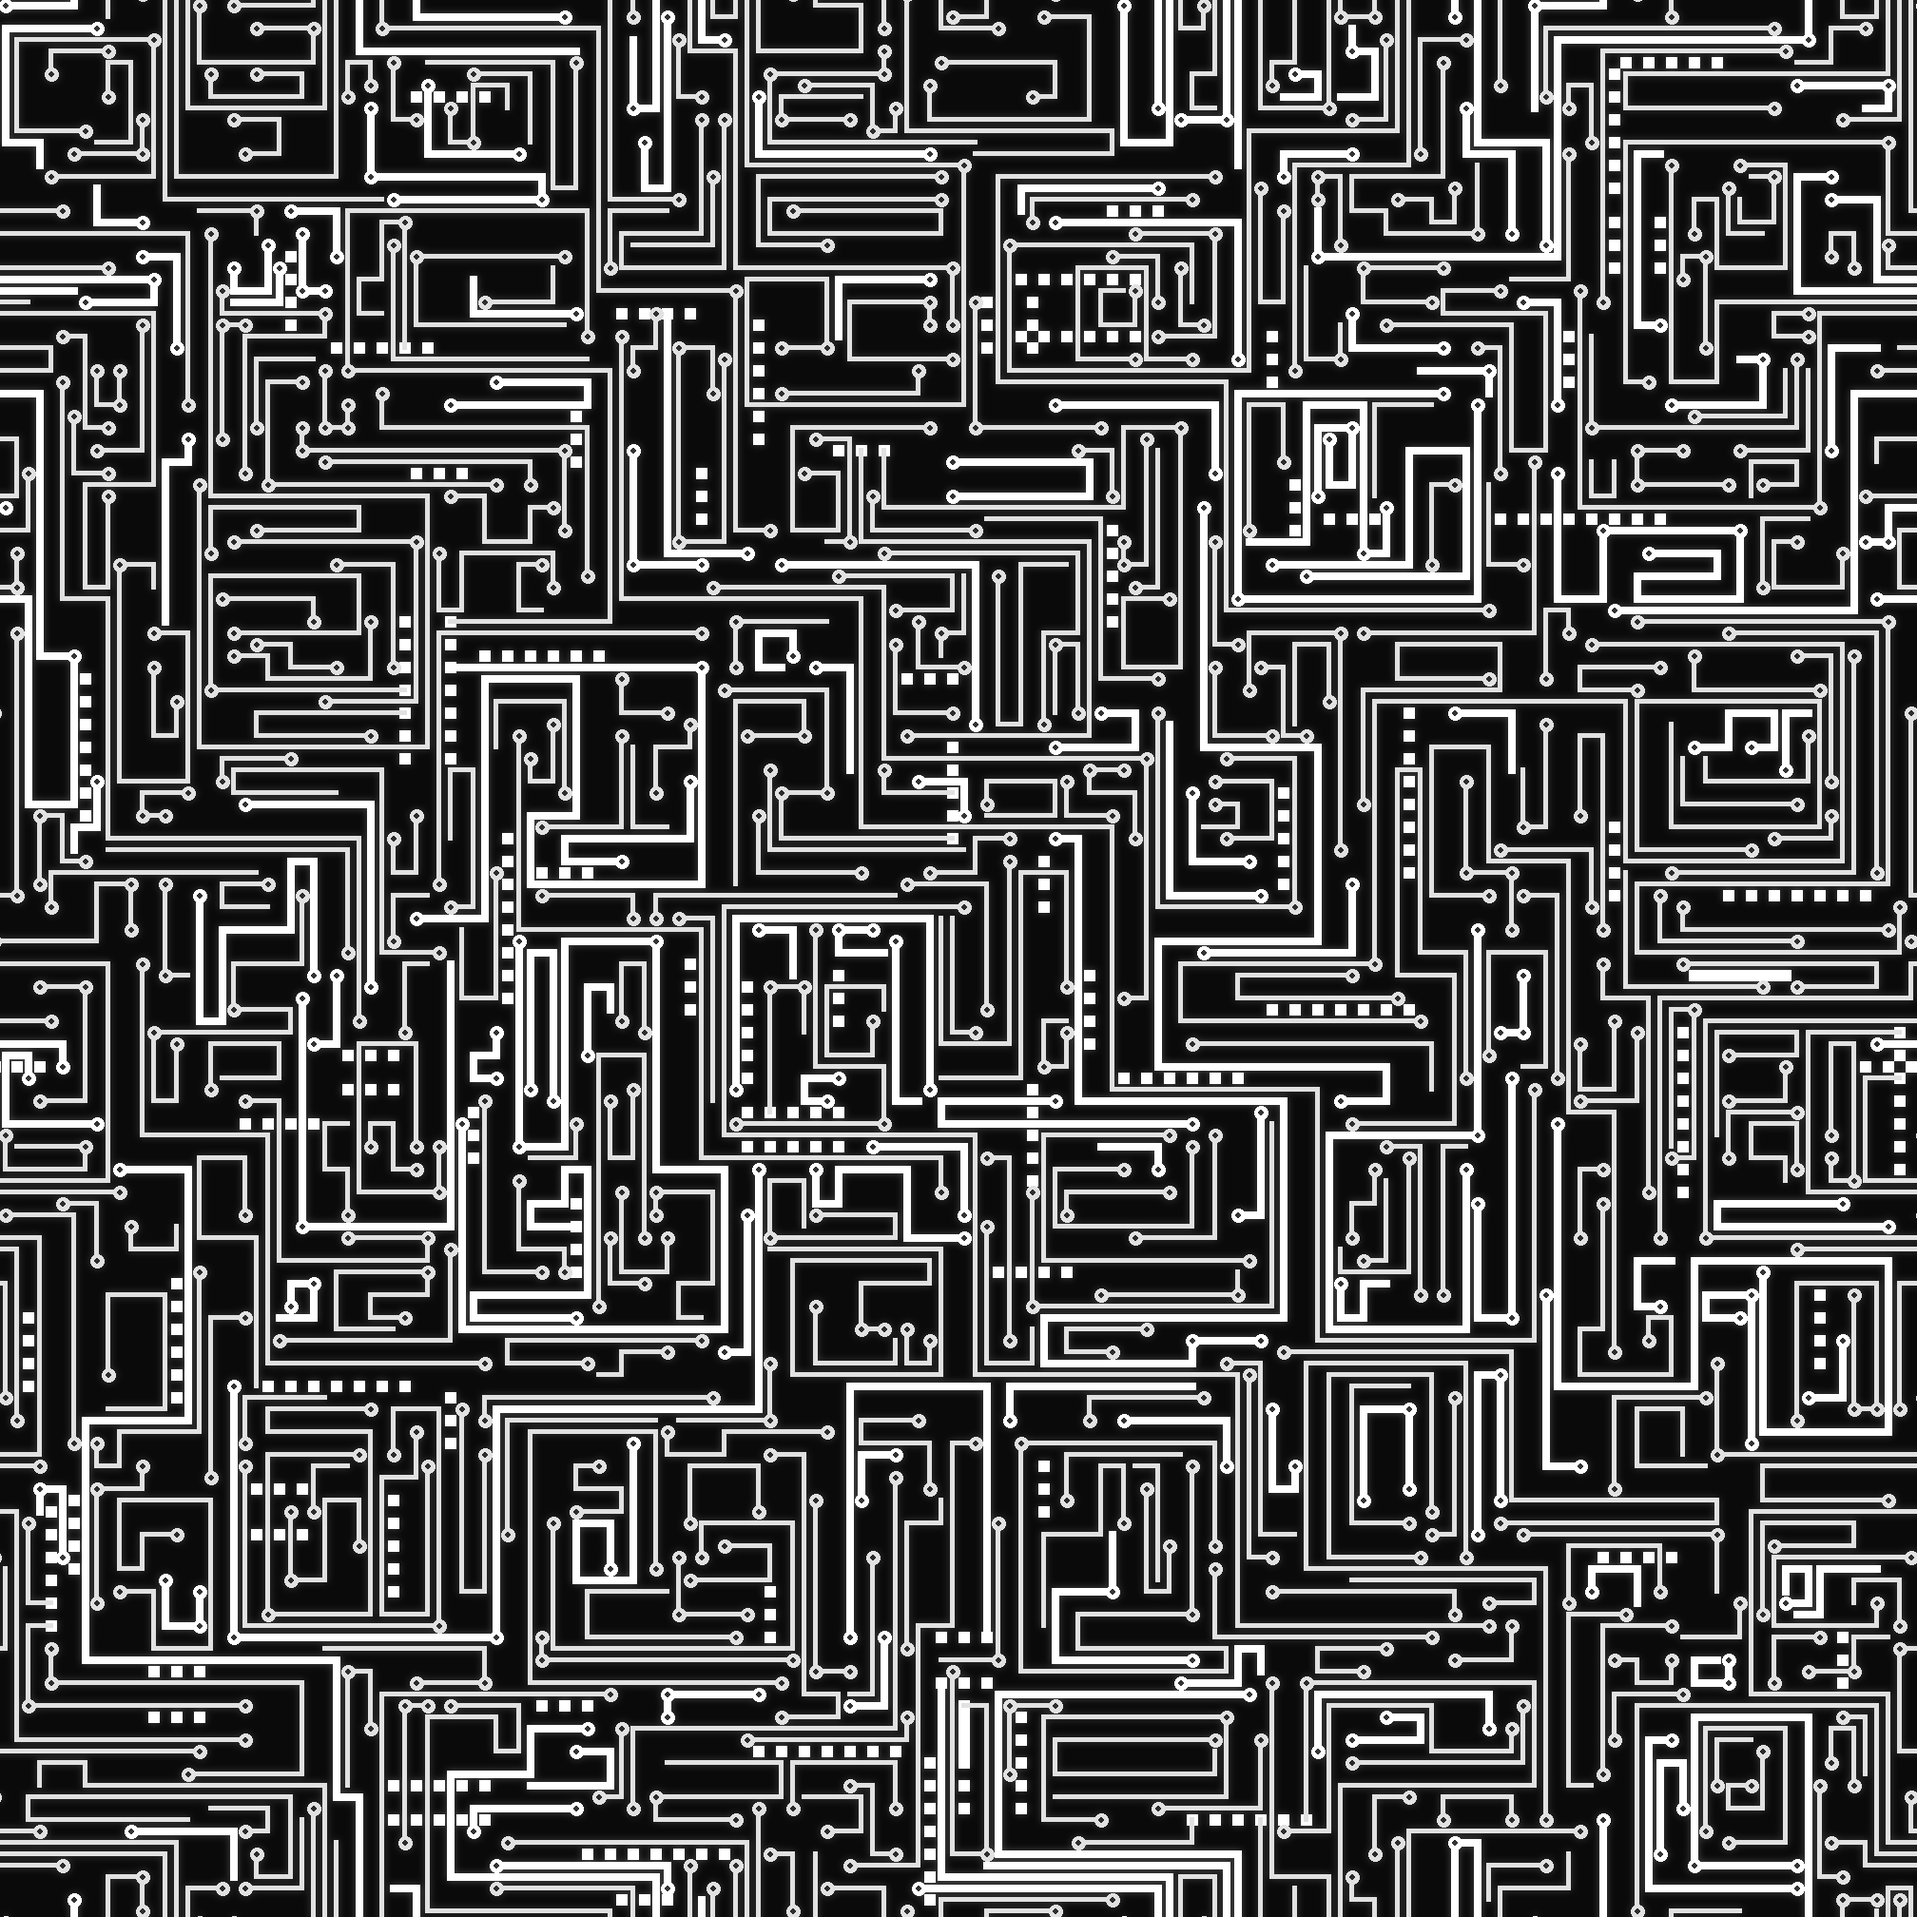
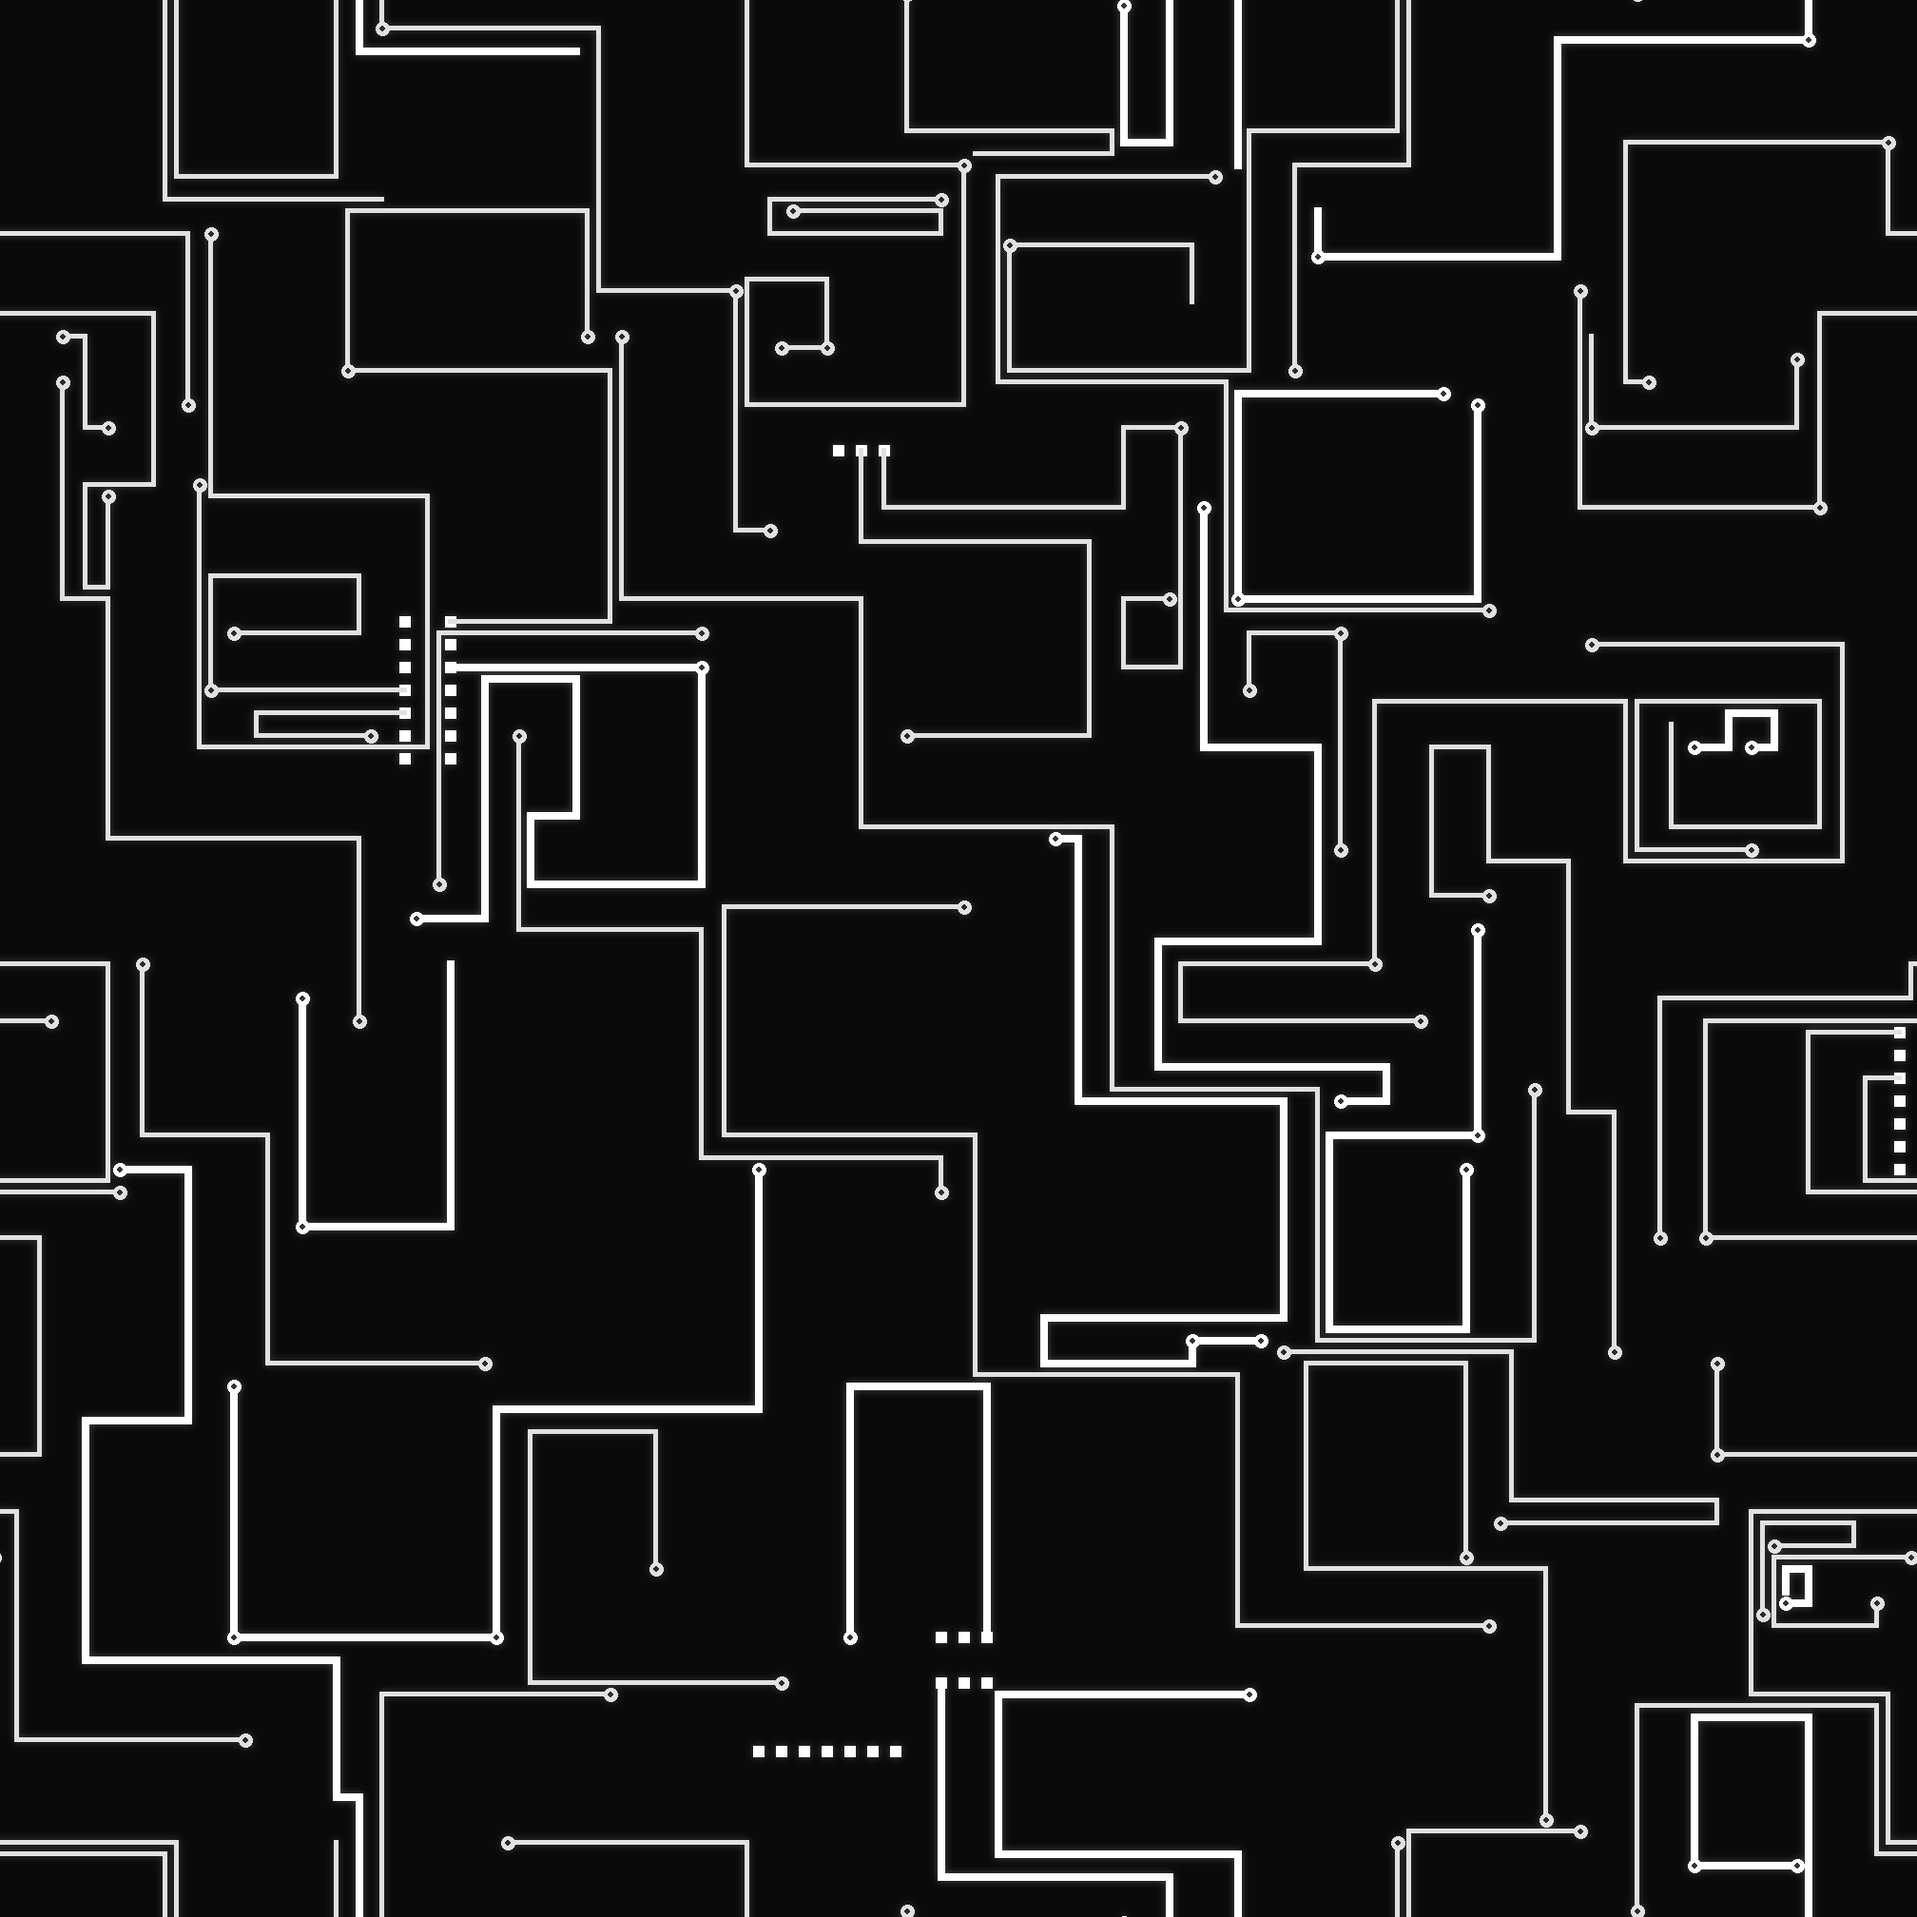
Thin out the circuit-board floor to ~7.5% coverage.
The reference's density (~28%) was too busy under the towers; the floor
is now mostly dark with scattered runs and vias. Coverage is also
checked every 50 placements so the generator stops near the target.

Changed region(s): [[0.0, 0.0, 1.0, 1.0], [0.625, 0.5312, 0.6562, 0.5625]]

diff --git a/tools/gen_textures.py b/tools/gen_textures.py
@@ -727,7 +727,7 @@ PCB_VIA_R = 7
 PCB_HOLE_R = 2.5
 PCB_THIN_V = 215              # thin and thick traces read as two "colors"
 PCB_THICK_V = 255
-PCB_COVERAGE = 0.28
+PCB_COVERAGE = 0.074          # sparse: well below the reference's ~30%
 DIRS = [(1, 0), (0, 1), (-1, 0), (0, -1)]
 
 
@@ -951,7 +951,7 @@ def floor_pcb(out, seed):
             pcb_snake(board, rng)
         else:
             pcb_pad_array(board, rng)
-        if attempts % 500 == 0 and board.coverage() >= PCB_COVERAGE:
+        if attempts % 50 == 0 and board.coverage() >= PCB_COVERAGE:
             break
     print(f"floor (pcb): {PCB_TILE}px, coverage {board.coverage() * 100:.1f}%, "
           f"cells {board.cell_fill() * 100:.0f}% after {attempts} attempts")
